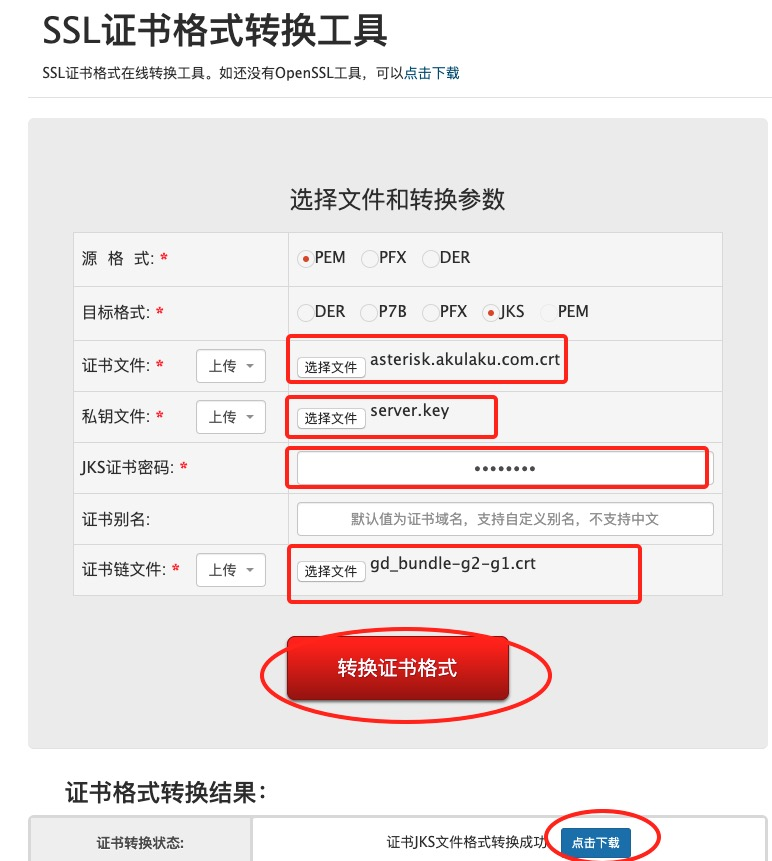
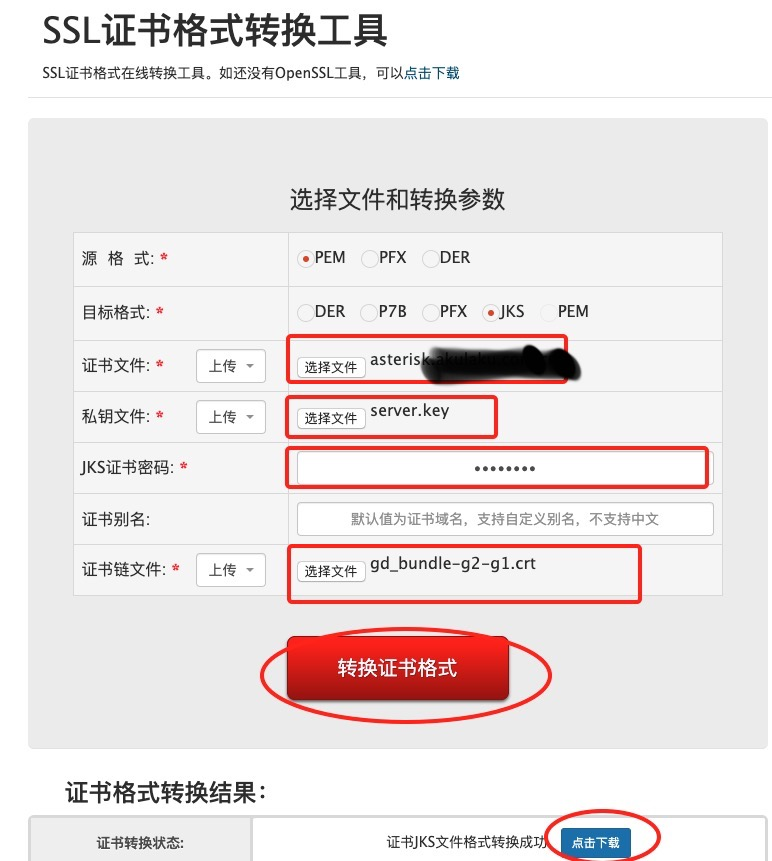
fix bug

Changed region(s): [[0.5285, 0.3926, 0.7772, 0.453]]

diff --git a/_drfts/大数据计算任务在k8s上运行时的日志收集.md b/_drfts/大数据计算任务在k8s上运行时的日志收集.md
@@ -1,0 +1,65 @@
+# 背景
+
+
+需要在 landset中显示日志.类似 hue 这样.在提交的时候,运行的时候,目的就是一站式的 IDE.
+
+
+
+目前 yarn 的日志查看方式.
+![7Iiqnv](https://gitee.com/xfly/imgbed/raw/master/img/post/7Iiqnv.png)
+
+![fYf0h3](https://gitee.com/xfly/imgbed/raw/master/img/post/fYf0h3.png)
+## 调研
+一个另外的方案
+- 在容器内通过各个服务的 log配置,把日志输出到文件
+- 文件的位置挂载在一个统一的 PV 上.
+- 让 firebeat去动态解析这个日志.
+- 最终日志到 ES kibana上.
+
+`log-pilot`这个工具需要在每个 node 上部署客户端.
+而且我们的 pod 有的还是在 ECI 上,还是我们自己的方案能够落地.
+
+现在需要用 presto 的这个方案.
+
+
+我是为了让 spark 的日志可以让 firebeat 采集.
+- 它能动态发现一个目录下的日志文件吗?
+
+
+
+
+
+
+## 方案
+![k8slog](https://gitee.com/xfly/imgbed/raw/master/img/post/k8slog.png)
+## 过程
+### 挂载持久层存储
+nfs关在 spark flink 容器内.
+
+`/tmp/log/{spark.app.name}.log `
+`SparkApplication` 的 HOSTNAME环境变量自带 `appname.driver`
+
+`/tmp/log/{flink.app.name}.log `
+### 日志落盘
+- 怎么把 appname hostname 打到不同配置文件里面.
+- 怎么区分不同时间 APP
+- 怎么区分不同名称的 APP
+
+#### spark 任务日志落到文件
+spark 默认使用 log4j
+#### flink 任务日志落到文件
+flink 默认支持 common log4j
+
+切换到 logback 的方法.
+
+
+
+
+- 最终到 es 里面取查询.
+### 客户端开发获取日志的界面
+- 这要跟 landset配合.
+
+有的是初试,有的是上限.
+
+Spark任务是否支持在 ECI 上,伸缩 executor,如果开启了动态分配资源的话?
+OSS 是不支持 ECI 吗?

diff --git a/_posts/2019-07-16-presto配置ldap用于用户认证.md b/_posts/2019-07-16-presto配置ldap用于用户认证.md
@@ -47,9 +47,12 @@ keytool -import -keystore /javahome/jre/lib/security/cacerts -trustcacerts -alia
 ``` sh
 keytool -list -keystore   /javahome/jre/lib/security/cacerts
 keytool -list -keystore   /javahome/jre/lib/security/cacerts | grep ldap
+keytool -list -keystore   cacerts | grep ldap
 ```
 
 
+
+keytool -import -keystore /usr/local/datadisk/jdk1.8.0_181/jre/lib/security/cacerts -trustcacerts -alias ldap20210609 -file /usr/local/datadisk/jdk1.8.0_181/jre/lib/security/ldap.cer
 
 
 ### 修改配置文件
